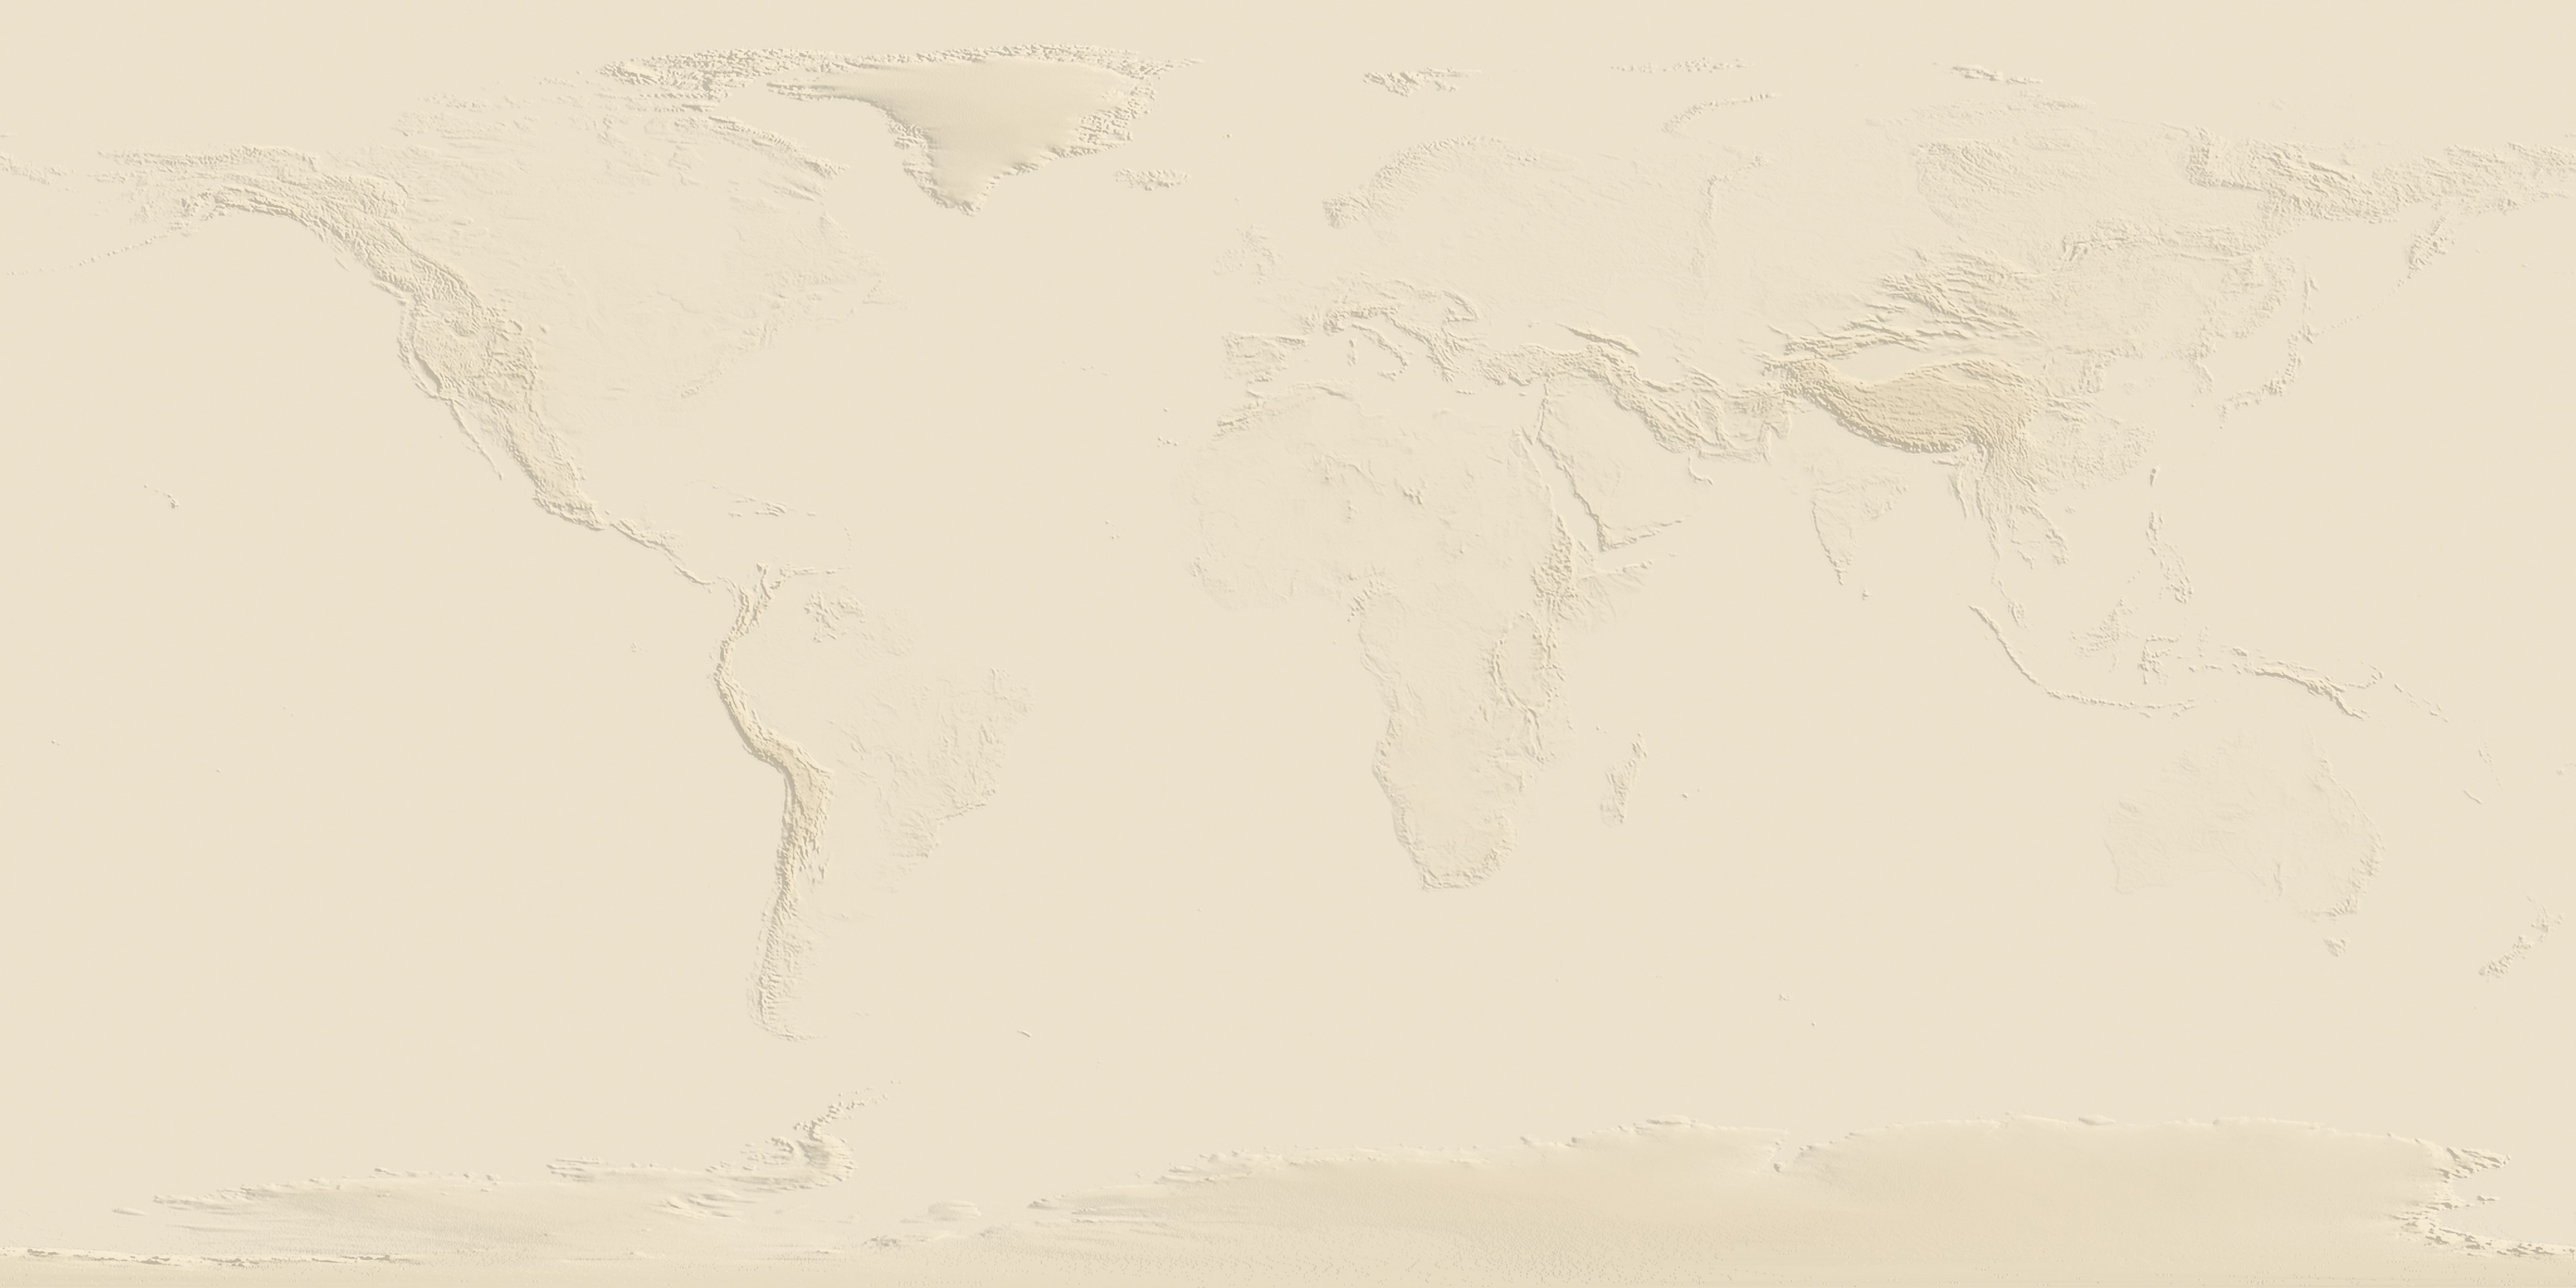
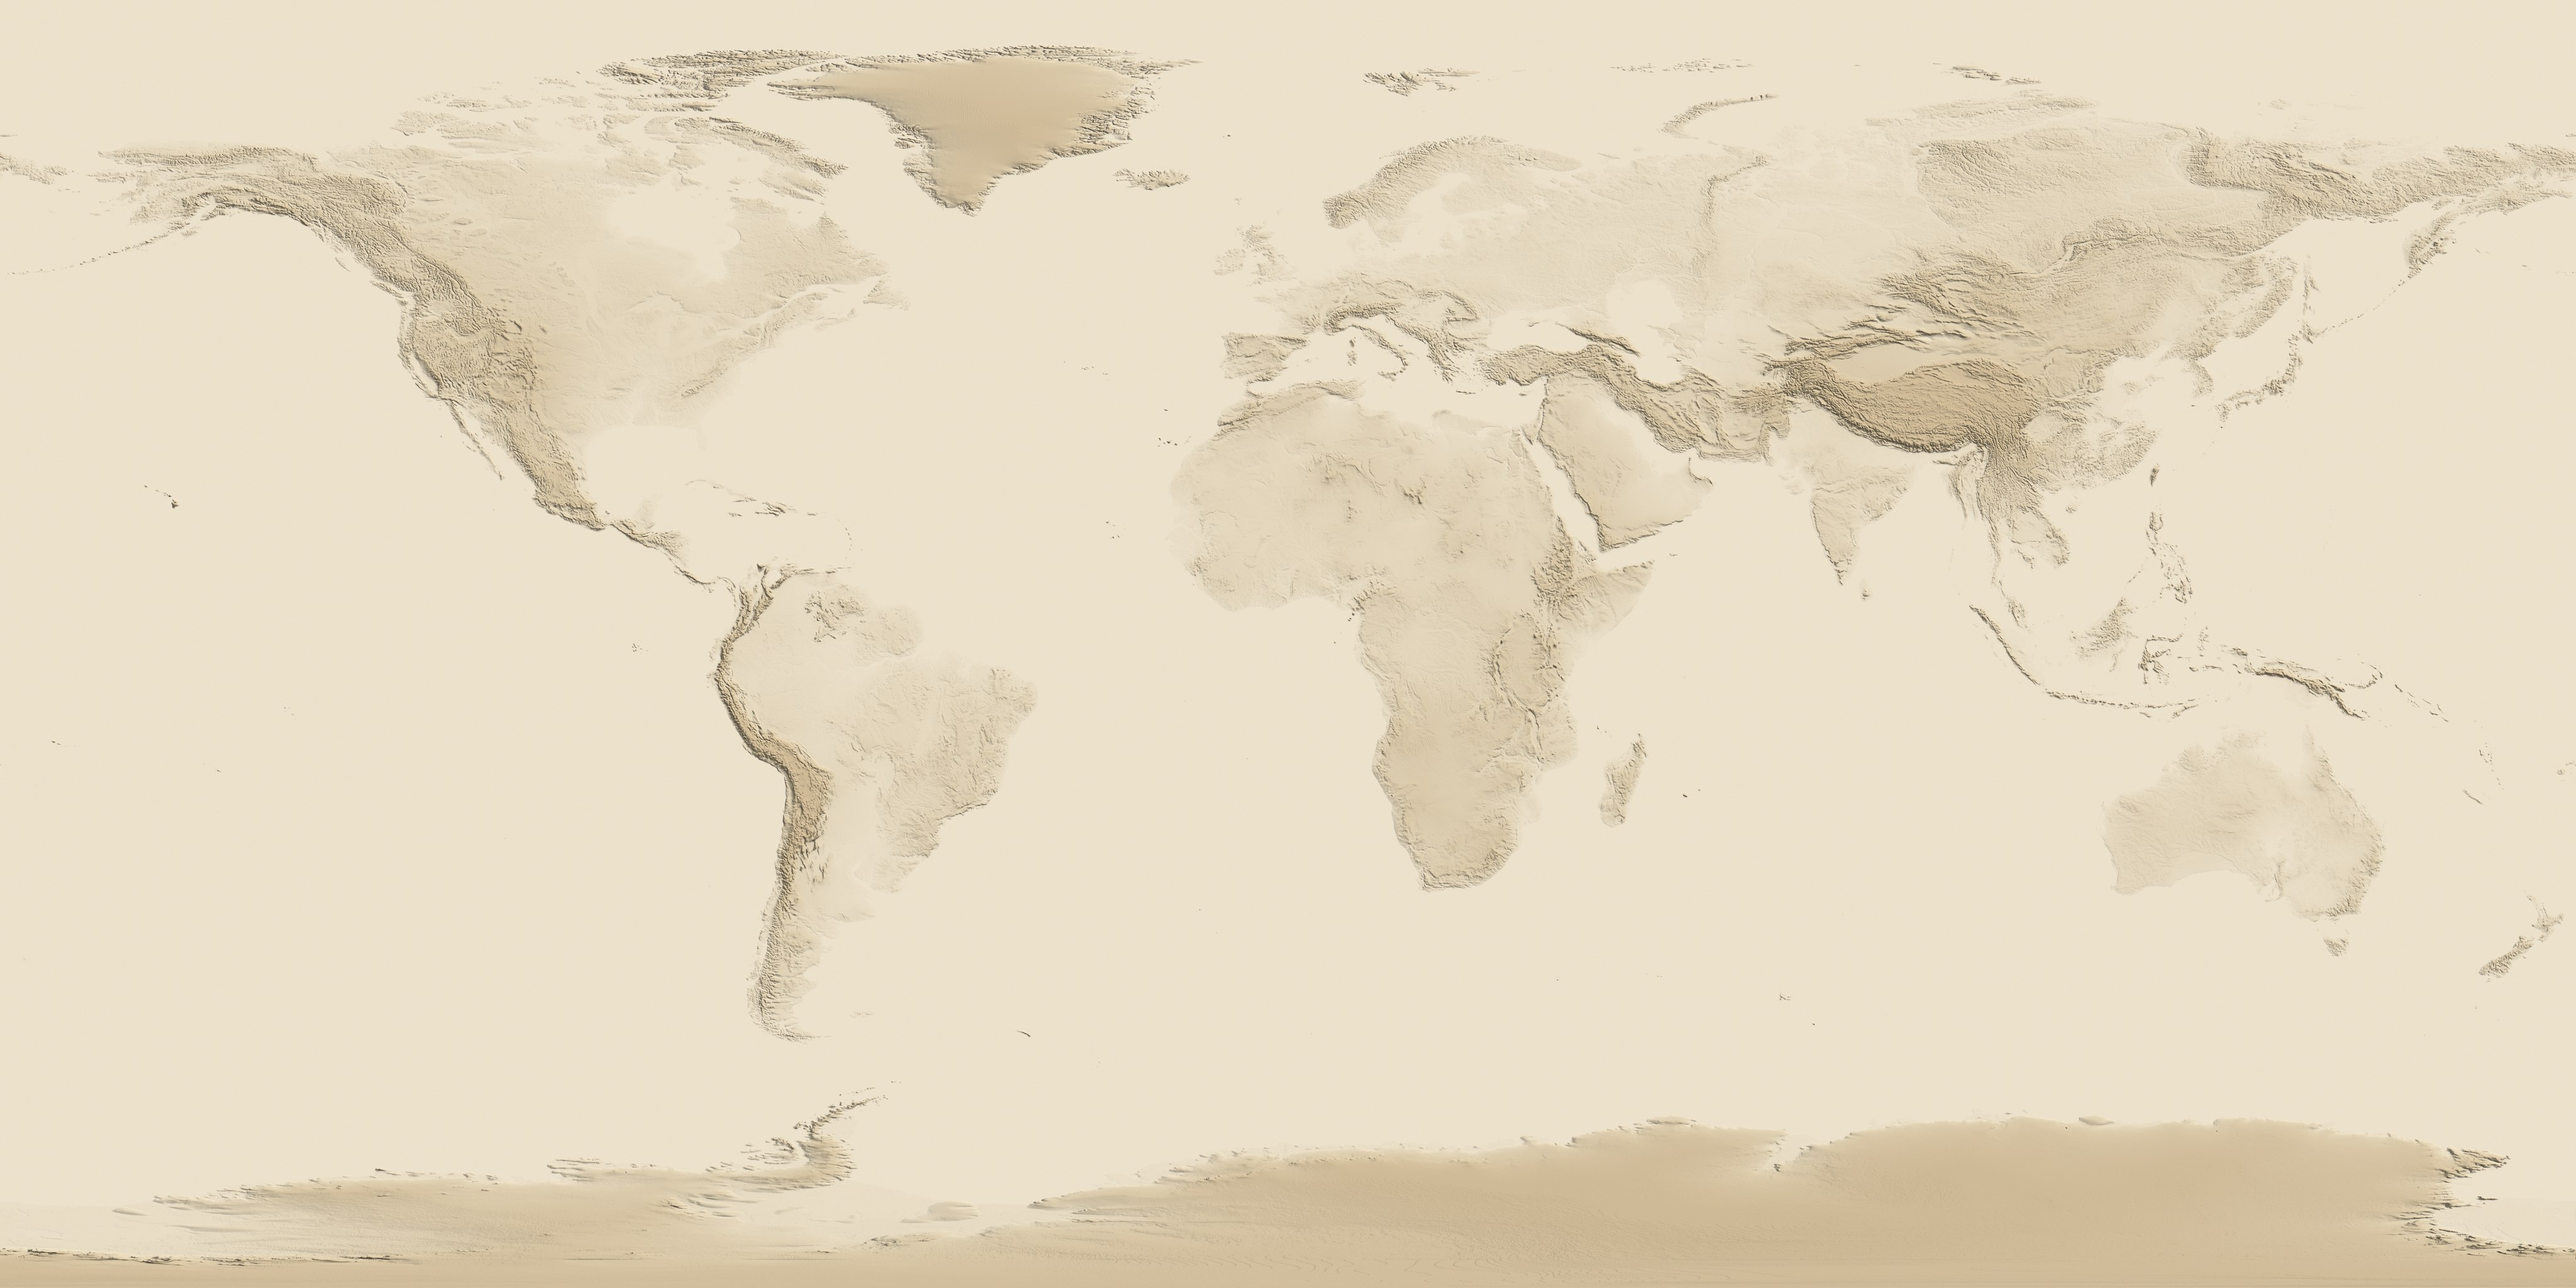
Passport preview: detailed relief from NASA elevation data, unbroken borders, crisp labels
Claude-Session: https://claude.ai/code/session_01G9fDWLn1cnr3Dqr3EN3T2G

diff --git a/theme/assets/globe-passport.js b/theme/assets/globe-passport.js
@@ -162,7 +162,7 @@ world.ringsData([]).ringLat("lat").ringLng("lon").ringAltitude(0.0028)
     let hd = false, fine = null, fineOn = false;
     window.wantDetail = alt => {
       if(alt < 1.6 && !hd){
-        hd = true;
+        hd = true; if(window.landHD) landHD();
         if(roomy) img(WOR.img + "earth-passport-hd.jpg" + IMGV).then(i => {
           const t = new Tex(i), old = mat.map; if(old.colorSpace) t.colorSpace = old.colorSpace;
           t.anisotropy = aniso; t.needsUpdate = true; mat.map = t; mat.needsUpdate = true; old.dispose();
@@ -174,8 +174,13 @@ world.ringsData([]).ringLat("lat").ringLng("lon").ringAltitude(0.0028)
     Promise.all([img(WOR.img + "land-paper.jpg" + IMGV), fetch(WOR.img + "land-50m.json" + IMGV).then(r => r.json()), fetch(WOR.img + "borders-50m.json" + IMGV).then(r => r.json())]).then(([pi, shapes, lines]) => {
       const lt = new Tex(pi); if(mat.map.colorSpace) lt.colorSpace = mat.map.colorSpace; lt.anisotropy = aniso; lt.needsUpdate = true;
       const landMat = new mat.constructor({ color: 0xffffff, shininess: 0 }); if(landMat.specular) landMat.specular.set("#000000");
+      const landUni = { value: lt };
+      window.landHD = roomy ? () => { window.landHD = null; img(WOR.img + "land-paper-hd.jpg" + IMGV).then(i => {
+        const t = new Tex(i); if(lt.colorSpace) t.colorSpace = lt.colorSpace; t.anisotropy = aniso; t.needsUpdate = true; landUni.value = t; lt.dispose();
+      }).catch(() => {}); } : null;
+      if(hd && window.landHD) landHD();
       landMat.onBeforeCompile = sh => {
-        sh.uniforms.landTex = { value: lt };
+        sh.uniforms.landTex = landUni;
         sh.vertexShader = "varying vec3 vGeo;\n" + sh.vertexShader.replace("#include <begin_vertex>", "#include <begin_vertex>\n  vGeo = position;");
         sh.fragmentShader = "uniform sampler2D landTex;\nvarying vec3 vGeo;\n" + sh.fragmentShader.replace("#include <map_fragment>", `
   vec3 pn = normalize(vGeo);
@@ -219,7 +224,13 @@ world.ringsData([]).ringLat("lat").ringLng("lon").ringAltitude(0.0028)
         merged(LAND50, geo => {
           const land = new Mesh(geo, landMat); land.scale.setScalar(1.003); world.scene().add(land);
           const lp = [], toXYZ = (lng, lat, r) => { const ph = (90 - lat) * Math.PI / 180, th = (90 - lng) * Math.PI / 180; return [r * Math.sin(ph) * Math.cos(th), r * Math.cos(ph), r * Math.sin(ph) * Math.sin(th)]; };
-          const segs = (ls, r) => { const a = []; ls.forEach(l => { for(let k = 0; k < l.length - 1; k++){ if(Math.abs(l[k + 1][0] - l[k][0]) > 180) continue; a.push(...toXYZ(l[k][0], l[k][1], r), ...toXYZ(l[k + 1][0], l[k + 1][1], r)); } }); const g = new BG(); g.setAttribute("position", new Attr(new Float32Array(a), 3)); return g; };
+          // Long straight borders get extra points every half degree, so the line follows the curve of the globe instead of cutting under the land.
+          const segs = (ls, r) => { const a = []; ls.forEach(l => { for(let k = 0; k < l.length - 1; k++){
+            const [x0, y0] = l[k], [x1, y1] = l[k + 1]; if(Math.abs(x1 - x0) > 180) continue;
+            const n = Math.max(1, Math.ceil(Math.max(Math.abs(x1 - x0), Math.abs(y1 - y0)) / 0.5));
+            let prev = toXYZ(x0, y0, r);
+            for(let j = 1; j <= n; j++){ const t = j / n, cur = toXYZ(x0 + (x1 - x0) * t, y0 + (y1 - y0) * t, r); a.push(...prev, ...cur); prev = cur; }
+          } }); const g = new BG(); g.setAttribute("position", new Attr(new Float32Array(a), 3)); return g; };
           world.scene().add(new Seg(segs(lines, 100.34), new LineMat({ color: 0x28303f, transparent: true, opacity: 0.85 })));
           const overlayMat = (hex, op) => { const m = new mat.constructor({ color: hex, transparent: true, opacity: op, shininess: 0, depthWrite: false, polygonOffset: true, polygonOffsetFactor: -2, polygonOffsetUnits: -2 }); if(m.specular) m.specular.set("#000000"); return m; };
           merged(LAND50.filter(f => MIXRAW.has(f.n)), g => { const m = new Mesh(g, overlayMat(0xf0aa50, 0.24)); m.scale.setScalar(1.003); world.scene().add(m); });

diff --git a/theme/assets/globe-passport.css b/theme/assets/globe-passport.css
@@ -417,8 +417,8 @@ h3.sec{margin:0 0 12px;font-family:var(--f-display);font-stretch:85%;font-weight
 .dp-photo,.mini-photo{overflow:hidden}.dp-photo img,.mini-photo img{width:100%;height:100%;object-fit:cover;display:block}
 
 /* Passport-page test */
-.glabel.country span{color:rgba(74,58,40,.78);text-shadow:0 0 3px rgba(239,230,210,.9),0 0 6px rgba(239,230,210,.6);font-weight:500}
-.glabel.city span{left:-14px;top:-14px;display:flex;align-items:center;gap:5px;color:#1b2638;font-weight:700;text-shadow:0 0 3px #efe6d2,0 0 6px #efe6d2,0 0 2px #efe6d2}
+.glabel.country span{color:#4a3a28;text-shadow:-1px -1px 0 #ece2cc,0px -1px 0 #ece2cc,1px -1px 0 #ece2cc,-1px 0px 0 #ece2cc,1px 0px 0 #ece2cc,-1px 1px 0 #ece2cc,0px 1px 0 #ece2cc,1px 1px 0 #ece2cc;font-weight:600;-webkit-font-smoothing:antialiased}
+.glabel.city span{left:-14px;top:-14px;display:flex;align-items:center;gap:5px;color:#1b2638;font-weight:700;text-shadow:-1px -1px 0 #efe6d2,0px -1px 0 #efe6d2,1px -1px 0 #efe6d2,-1px 0px 0 #efe6d2,1px 0px 0 #efe6d2,-1px 1px 0 #efe6d2,0px 1px 0 #efe6d2,1px 1px 0 #efe6d2;-webkit-font-smoothing:antialiased}
 .glabel.city .pm{width:28px;height:28px;flex:none;filter:drop-shadow(0 1px 1px rgba(0,0,0,.35))}
 .glabel.city .pm circle{fill:rgba(239,230,210,.92);stroke:#24324a}
 .glabel.city .pm .o{stroke-width:1.6}.glabel.city .pm .i{stroke-width:.8;fill:none;stroke-dasharray:1.6 1.2}

diff --git a/theme/style.css b/theme/style.css
@@ -4,7 +4,7 @@ Theme URI:    https://worldonrotation.com/
 Author:       Rhythm Passport
 Author URI:   https://rhythmpassport.com/
 Description:  The World on Rotation globe and its passport-style pages: places, countries, mixes and playlists, selectors. Needs the World on Rotation plugin for its content.
-Version:      1.1.9
+Version:      1.1.10
 Requires at least: 6.4
 Requires PHP: 7.4
 License:      GPL-2.0-or-later

diff --git a/world-on-rotation.php b/world-on-rotation.php
@@ -2,7 +2,7 @@
 /**
  * Plugin Name:       World on Rotation
  * Description:       The content behind the World on Rotation globe: mixes and playlists, selectors, places and countries, with their music guides. Includes the Selector role and a one-click import of the launch content.
- * Version:           1.3.10
+ * Version:           1.3.11
  * Requires at least: 6.4
  * Requires PHP:      7.4
  * Author:            Rhythm Passport
@@ -15,7 +15,7 @@ if ( ! defined( 'ABSPATH' ) ) {
 	exit;
 }
 
-define( 'WOR_VERSION', '1.3.10' );
+define( 'WOR_VERSION', '1.3.11' );
 define( 'WOR_DIR', plugin_dir_path( __FILE__ ) );
 define( 'WOR_URL', plugin_dir_url( __FILE__ ) );
 
